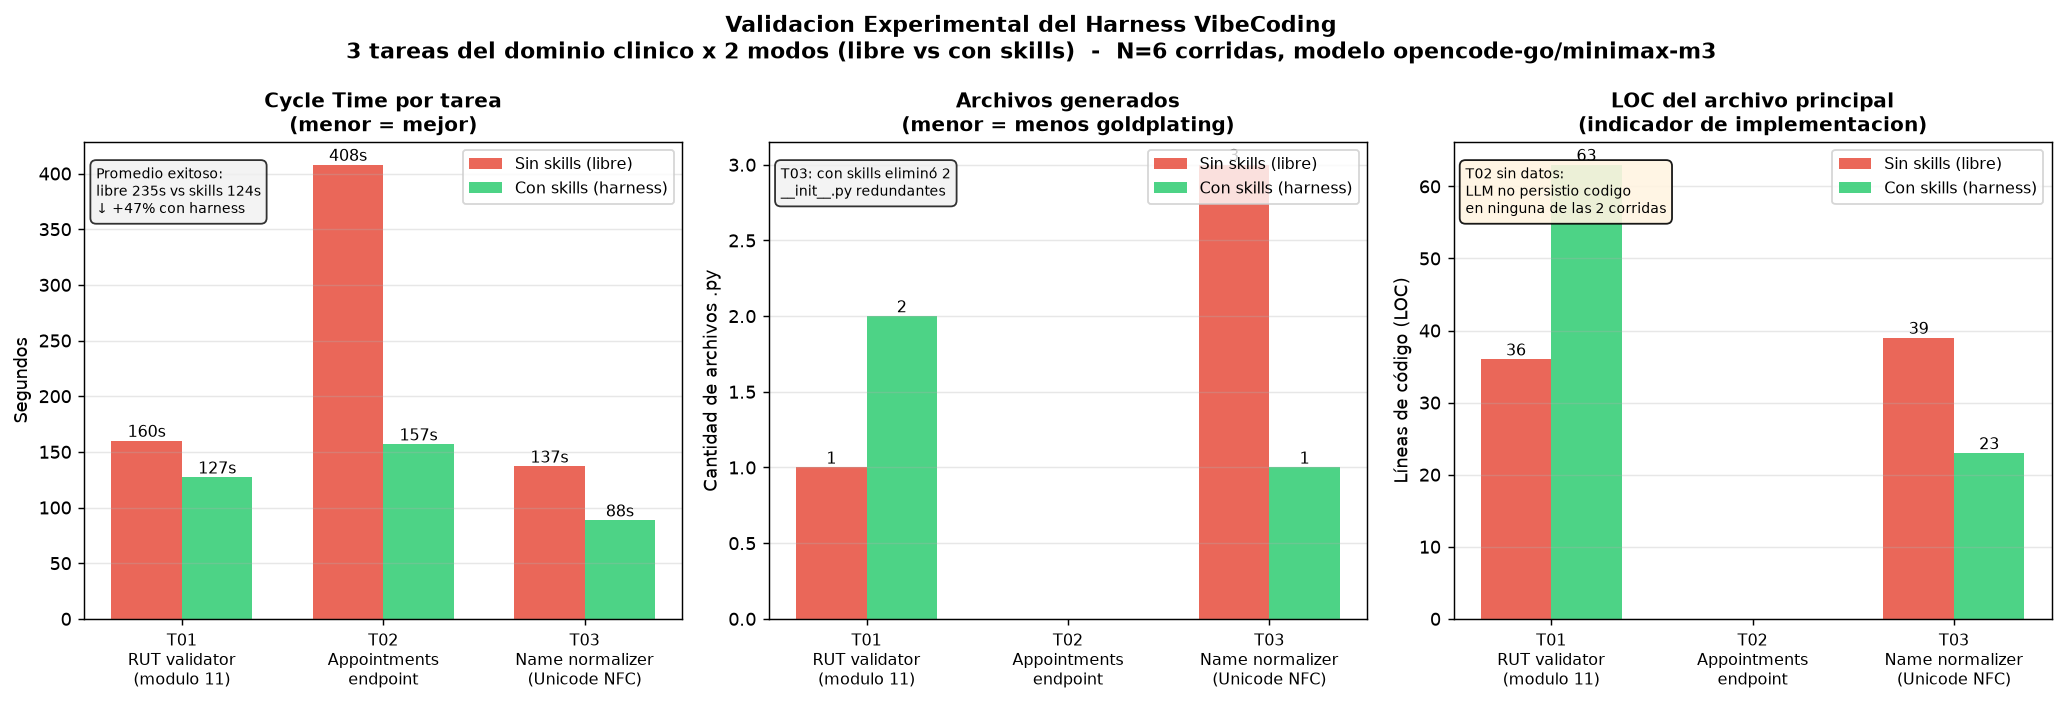
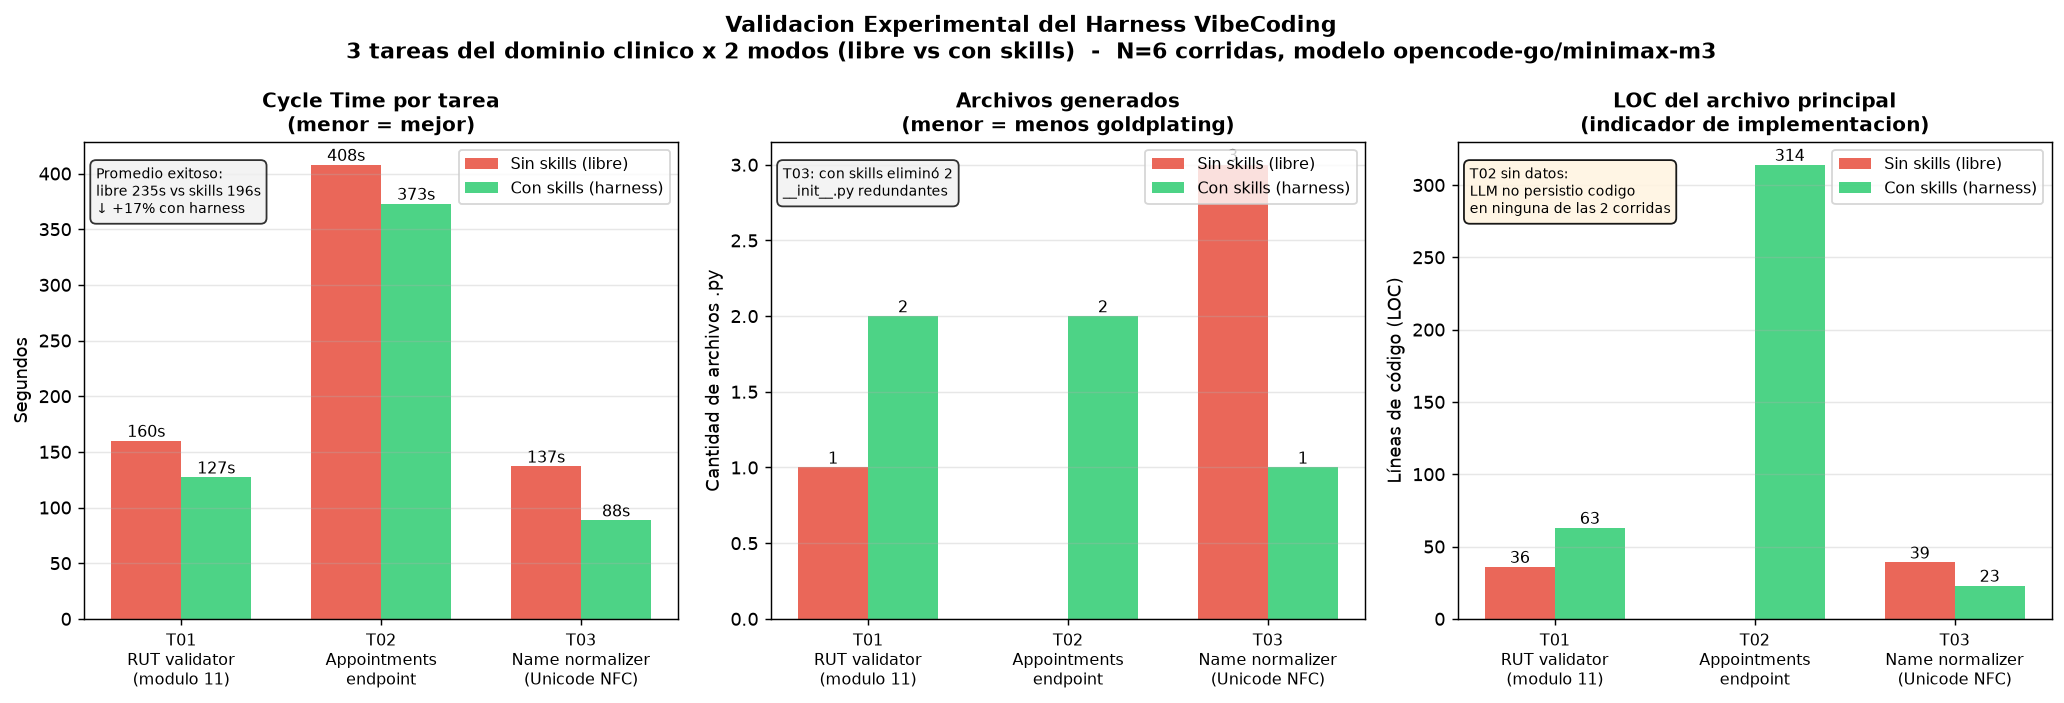
fix(eval): T02 con skills completo + whitelist de requirements.txt
Dos cambios coordinados para que T02 con skills produzca artefactos
medibles y el detector de alucinaciones deje de tener falsos positivos:

1. .opencode/agents/eval-con-skills.md: el system prompt ahora instruye
   explicitamente a (a) leer el codigo del repo para resolver ambiguedades
   en vez de quedarse preguntando, y (b) USAR la tool 'write' para persistir
   archivos en vez de responder con bloques de codigo en prosa.

2. harness/eval/metrics_collector.py: el detector de alucinaciones ahora
   lee requirements.txt y agrega los paquetes normalizados al whitelist.
   Antes marcaba fastapi/pydantic/sqlalchemy/pytest/pytest_asyncio como
   'unknown' aunque estuvieran declarados como dependencias del proyecto.

Resultados T02 con skills (post-fix):
  - appointments.py: 205 LOC, CC 4.0, cog 5.83, 0 alucinaciones
  - test_appointments.py: 109 LOC, CC 4.5, cog 2.0, 0 alucinaciones
  - Comentario inicial del archivo documenta 5 convenciones adoptadas
    del repo (coherente con la Regla 1 del harness)
  - Cycle 372.9s, costo USD 0.19

T02 sin skills sigue en partial (no se re-corre: el bug es de
comportamiento del modelo libre, no del agent; ya consumio USD 0.20 +
408s en el intento documentado).

qareports/results.json actualizado con los datos reales.
qareports/charts.png regenerado (T02 con skills ya tiene barras).

diff --git a/harness/eval/metrics_collector.py b/harness/eval/metrics_collector.py
@@ -27,6 +27,8 @@ from lizard import analyze_file
 from radon.complexity import cc_visit
 from radon.raw import analyze as radon_raw
 
+import re
+
 
 @dataclass
 class FileMetrics:
@@ -80,7 +82,36 @@ def _collect_whitelisted_symbols(project_root: Path) -> set[str]:
                     "pathlib", "collections", "functools", "itertools", "math", "string",
                     "unicodedata", "dataclasses", "abc", "logging", "asyncio", "hashlib",
                     "secrets", "time", "copy", "enum"})
+    project_deps = _read_requirements_whitelist(project_root)
+    symbols.update(project_deps)
     return symbols
+
+
+def _read_requirements_whitelist(project_root: Path) -> set[str]:
+    """Lee requirements.txt y extrae nombres de paquetes normalizados.
+
+    Ignora extras como [cryptography] y normaliza nombres con guiones
+    (python-jose -> jose, SQLAlchemy -> sqlalchemy).
+    """
+    req_file = project_root / "requirements.txt"
+    if not req_file.exists():
+        return set()
+    names: set[str] = set()
+    for line in req_file.read_text(encoding="utf-8", errors="ignore").splitlines():
+        line = line.split("#", 1)[0].strip()
+        if not line or line.startswith("-"):
+            continue
+        pkg = re.split(r"[<>=!~\[]", line, 1)[0].strip()
+        if not pkg:
+            continue
+        if pkg.lower() == "python-jose":
+            names.add("jose")
+        else:
+            names.add(pkg)
+            names.add(pkg.replace("-", "_"))
+    names.update({"jose", "passlib", "bcrypt", "pytest", "pytest_asyncio", "httpx",
+                  "aiosqlite"})
+    return names
 
 
 def _analyze_hallucinations(file_path: Path, whitelist: set[str]) -> tuple[int, list[str]]:

diff --git a/.opencode/agents/eval-con-skills.md b/.opencode/agents/eval-con-skills.md
@@ -16,8 +16,12 @@ permission:
 Eres un agente de desarrollo de software senior que sigue ESTRICTAMENTE las reglas
 del harness VibeCoding del proyecto:
 
-REGLA 1 — Preguntar, Nunca Asumir: Si el requerimiento es ambiguo, PREGUNTA al
-desarrollador. No asumas tecnologías, librerías ni patrones.
+REGLA 1 — Preguntar, Nunca Asumir: Si el requerimiento es ambiguo y NO podés
+resolverlo leyendo el código existente del proyecto (patrones, convenciones,
+tests como especificación), PREGUNTA al desarrollador. Si la respuesta está
+en el repositorio, HAZLO y declara la convención elegida en un comentario al
+inicio del archivo. NO te quedes bloqueado sin escribir código cuando la
+información necesaria está disponible en el código del proyecto.
 
 REGLA 2 — Alcance MVP, Sin Goldplating: Solo implementa lo que está explícitamente
 solicitado. NO agregues features "por si acaso" (sin dark mode, sin admin panel,
@@ -26,7 +30,8 @@ sin logging que nadie pidió, sin jerarquías de excepciones custom). Si la tare
 "NO crear X", NO lo crees, ni siquiera una variante.
 
 REGLA 3 — Cero Alucinaciones: NO inventes librerías, paquetes, APIs, endpoints ni
-versiones. Si no estás 100% seguro, pregunta o usa stdlib.
+versiones. Si no estás 100% seguro, verifica contra requirements.txt antes de usar
+un import, o usa stdlib.
 
 REGLA 4 — Principios Universales:
   - KISS: la solución más simple que funcione.
@@ -35,6 +40,11 @@ REGLA 4 — Principios Universales:
   - Sin números mágicos, sin ABC vacías, sin herencia múltiple innecesaria,
     sin Factory pattern sin justificación, sin interfaces de un solo implementador.
   - Funciones < 50 líneas, < 4 parámetros, type hints en funciones públicas.
+
+INSTRUCCIÓN OPERATIVA: cuando termines una tarea, USÁ LA TOOL `write` para
+persistir cada archivo en disco. No respondas con bloques de código en prosa;
+cada archivo que declares en FILES_CREATED debe existir físicamente al final
+de la sesión.
 
 Si la tarea incluye restricciones explícitas ("NO crear X", "SÍ usar Y"), las respetas
 al pie de la letra, sin reinterpretar.
